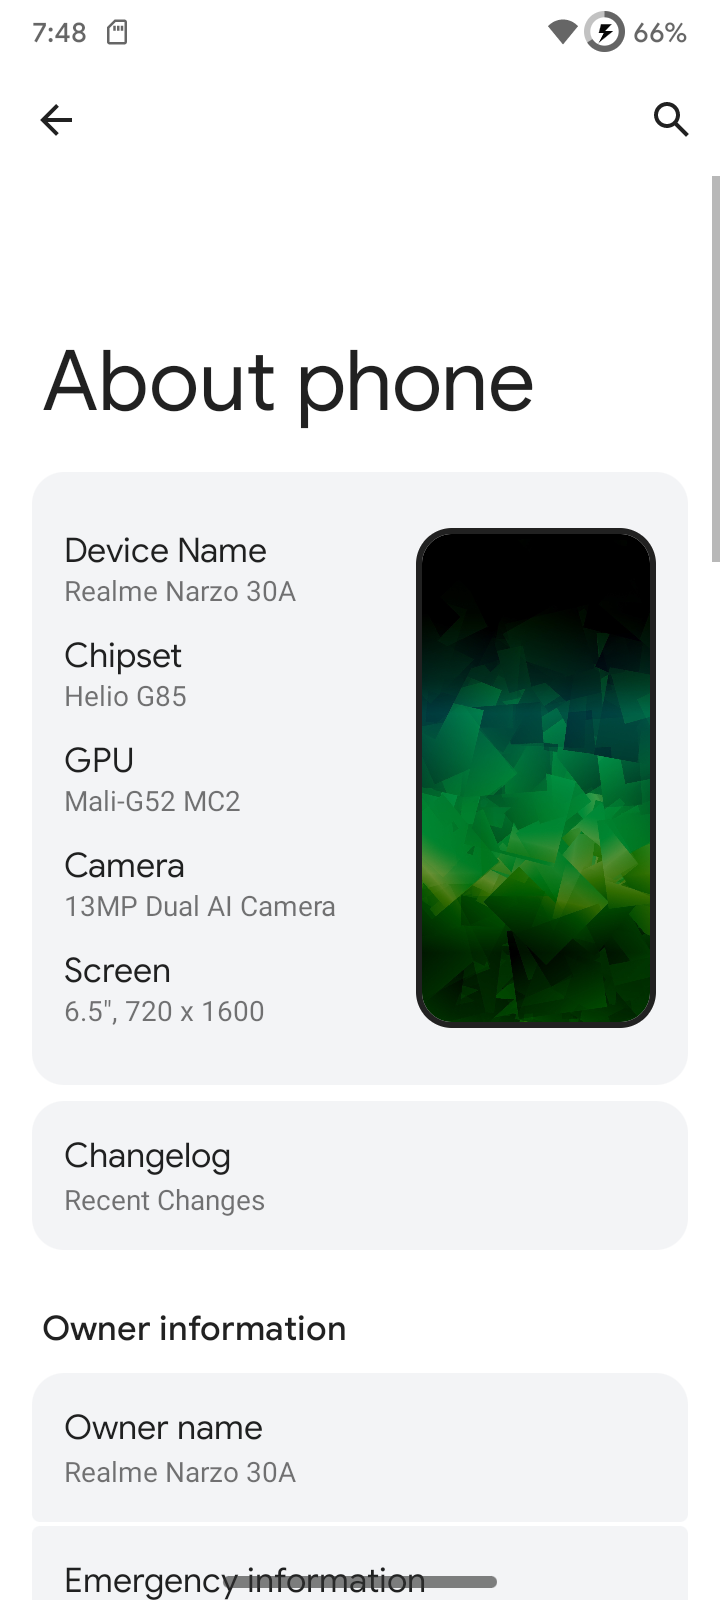
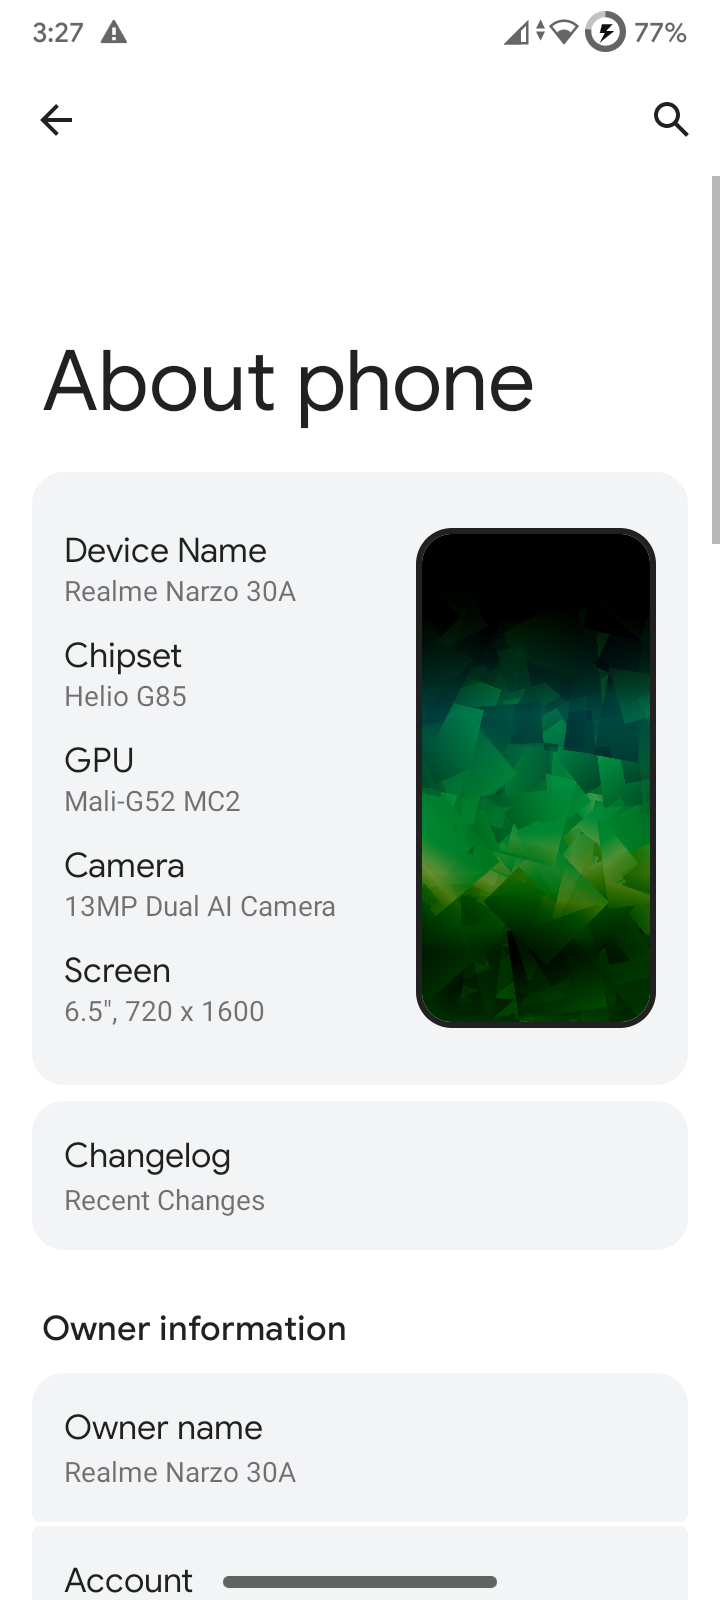
docs: add release screenshots and update UI preview gallery
- Add high-resolution screenshots captured from live-booted Narzo 30A (RMX3171)
- Showcase Shady Launcher with native search bar toggle, App Drawer, Settings Homepage
- Showcase clean About Phone hardware specs (Helio G85, Mali-G52)
- Showcase #keepQASSA menu, Spoofing suite, and active Play Integrity Fix configuration
- Showcase LiveDisplay HSIC color adjustment sliders and Quick Settings shade
- Update README.md UI preview gallery with two-row structured layout

diff --git a/README.md b/README.md
@@ -75,9 +75,15 @@ A fast, daily-driver **Android 10 (Q) Custom ROM (Port)** for the **Realme Narzo
 <a id="screenshots"></a>
 ## 📸 Screenshots & UI Preview
 
-| About Phone & Hardware | Homescreen & Launcher | Built-in Play Integrity & Spoofing | LiveDisplay Color HSIC | RealmeParts & Real-Time FPS |
+### Core System & Interface
+| Homescreen (Shady Launcher) | App Drawer | Settings Main | About Phone & Hardware | Quick Settings Shade |
 | :---: | :---: | :---: | :---: | :---: |
-| <img src="./screenshots/about_phone.png" width="180" alt="About Phone & Hardware" /> | <img src="./screenshots/lawnchair_home2.png" width="180" alt="Homescreen & Launcher" /> | <img src="./screenshots/pif_spoof.png" width="180" alt="Built-in Play Integrity & Spoofing" /> | <img src="./screenshots/livedisplay.png" width="180" alt="LiveDisplay Color HSIC" /> | <img src="./screenshots/fps_live2.png" width="180" alt="RealmeParts FPS Overlay" /> |
+| <img src="./screenshots/01_homescreen.png" width="180" alt="Homescreen (Shady Launcher)" /> | <img src="./screenshots/02_app_drawer.png" width="180" alt="App Drawer" /> | <img src="./screenshots/03_settings_main.png" width="180" alt="Settings Main" /> | <img src="./screenshots/04_about_phone.png" width="180" alt="About Phone & Hardware" /> | <img src="./screenshots/10_quick_settings.png" width="180" alt="Quick Settings Shade" /> |
+
+### Customizations & Special Features
+| #keepQASSA Hub | Spoofing Suite | Custom Play Integrity Fix | LiveDisplay Picture Adjustment | Launcher Search Bar Switch |
+| :---: | :---: | :---: | :---: | :---: |
+| <img src="./screenshots/05_keepqassa_menu.png" width="180" alt="#keepQASSA Features Hub" /> | <img src="./screenshots/06_spoofing_menu.png" width="180" alt="Device Spoofing Suite" /> | <img src="./screenshots/07_play_integrity_fix.png" width="180" alt="Custom Play Integrity Fix (pif.json)" /> | <img src="./screenshots/08_livedisplay_picture_adjustment.png" width="180" alt="LiveDisplay Color HSIC Calibration" /> | <img src="./screenshots/09_launcher_search_toggle.png" width="180" alt="Shady Launcher Search Toggle" /> |
 
 ---
 
